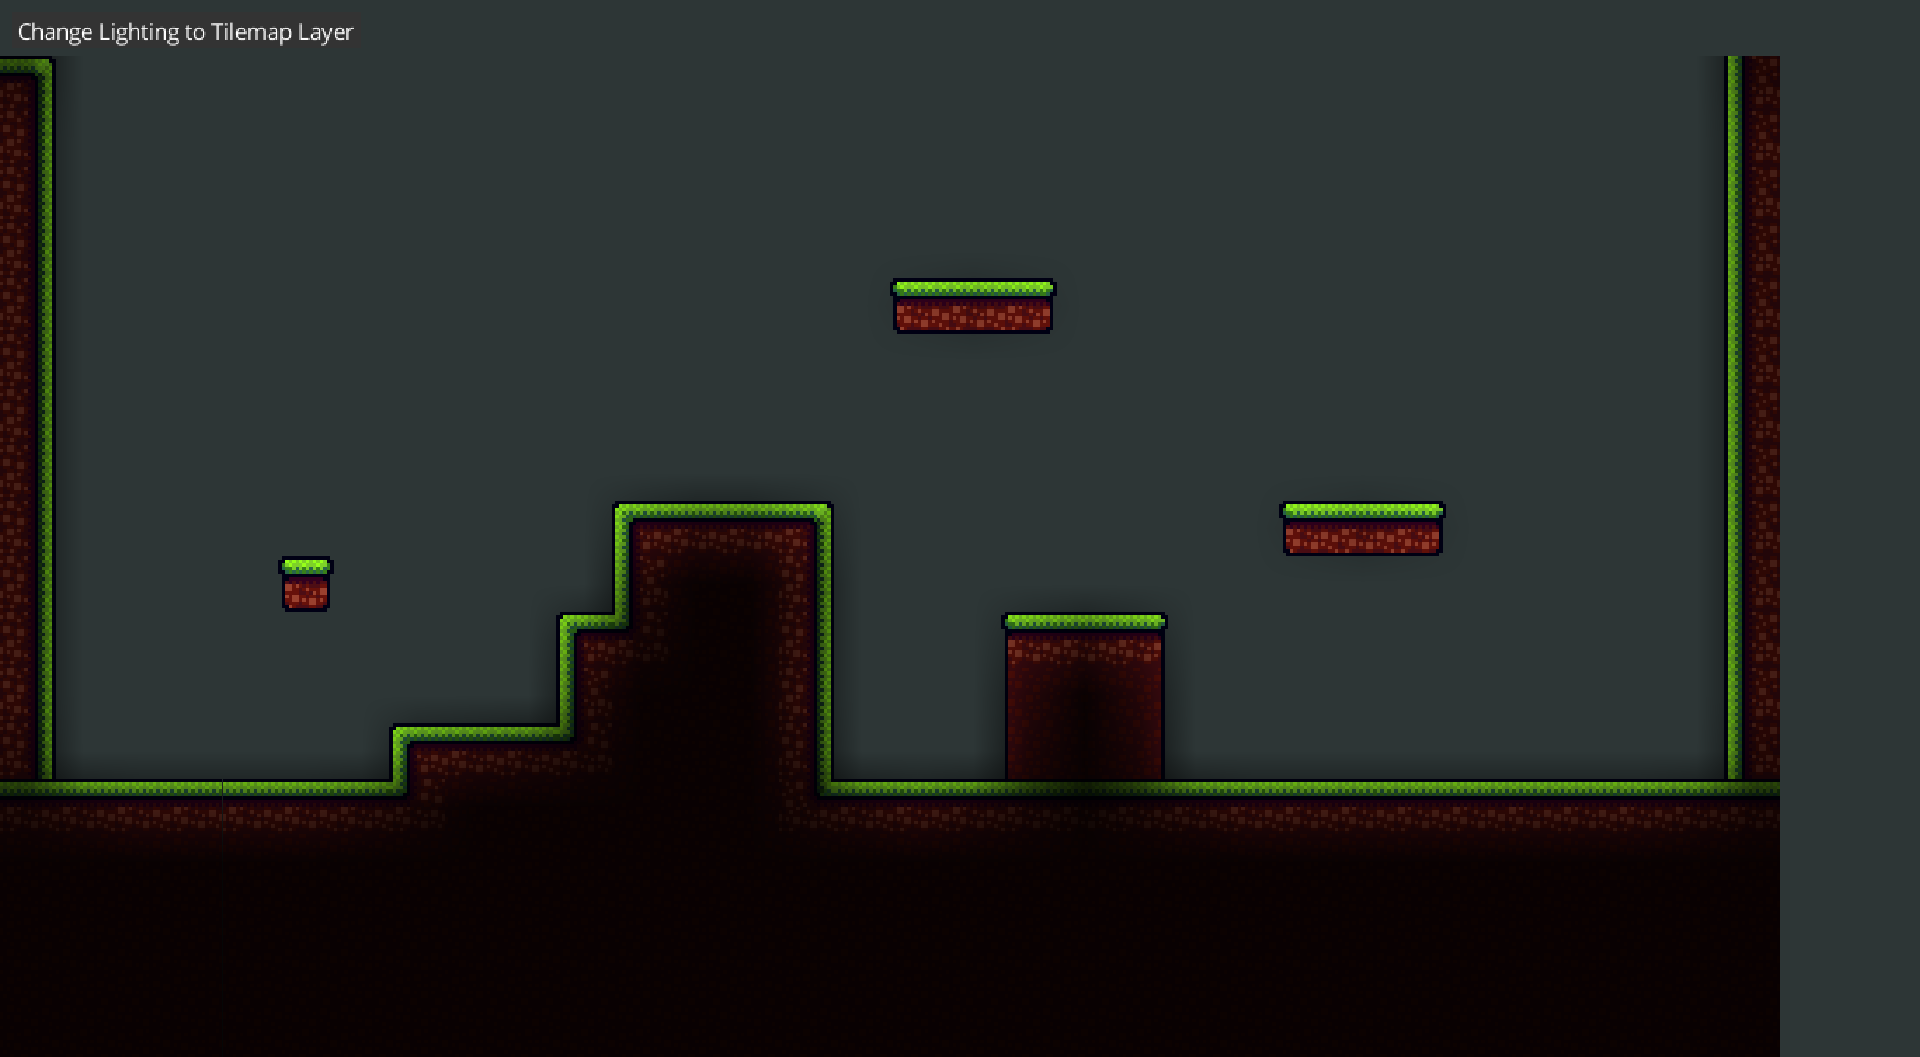
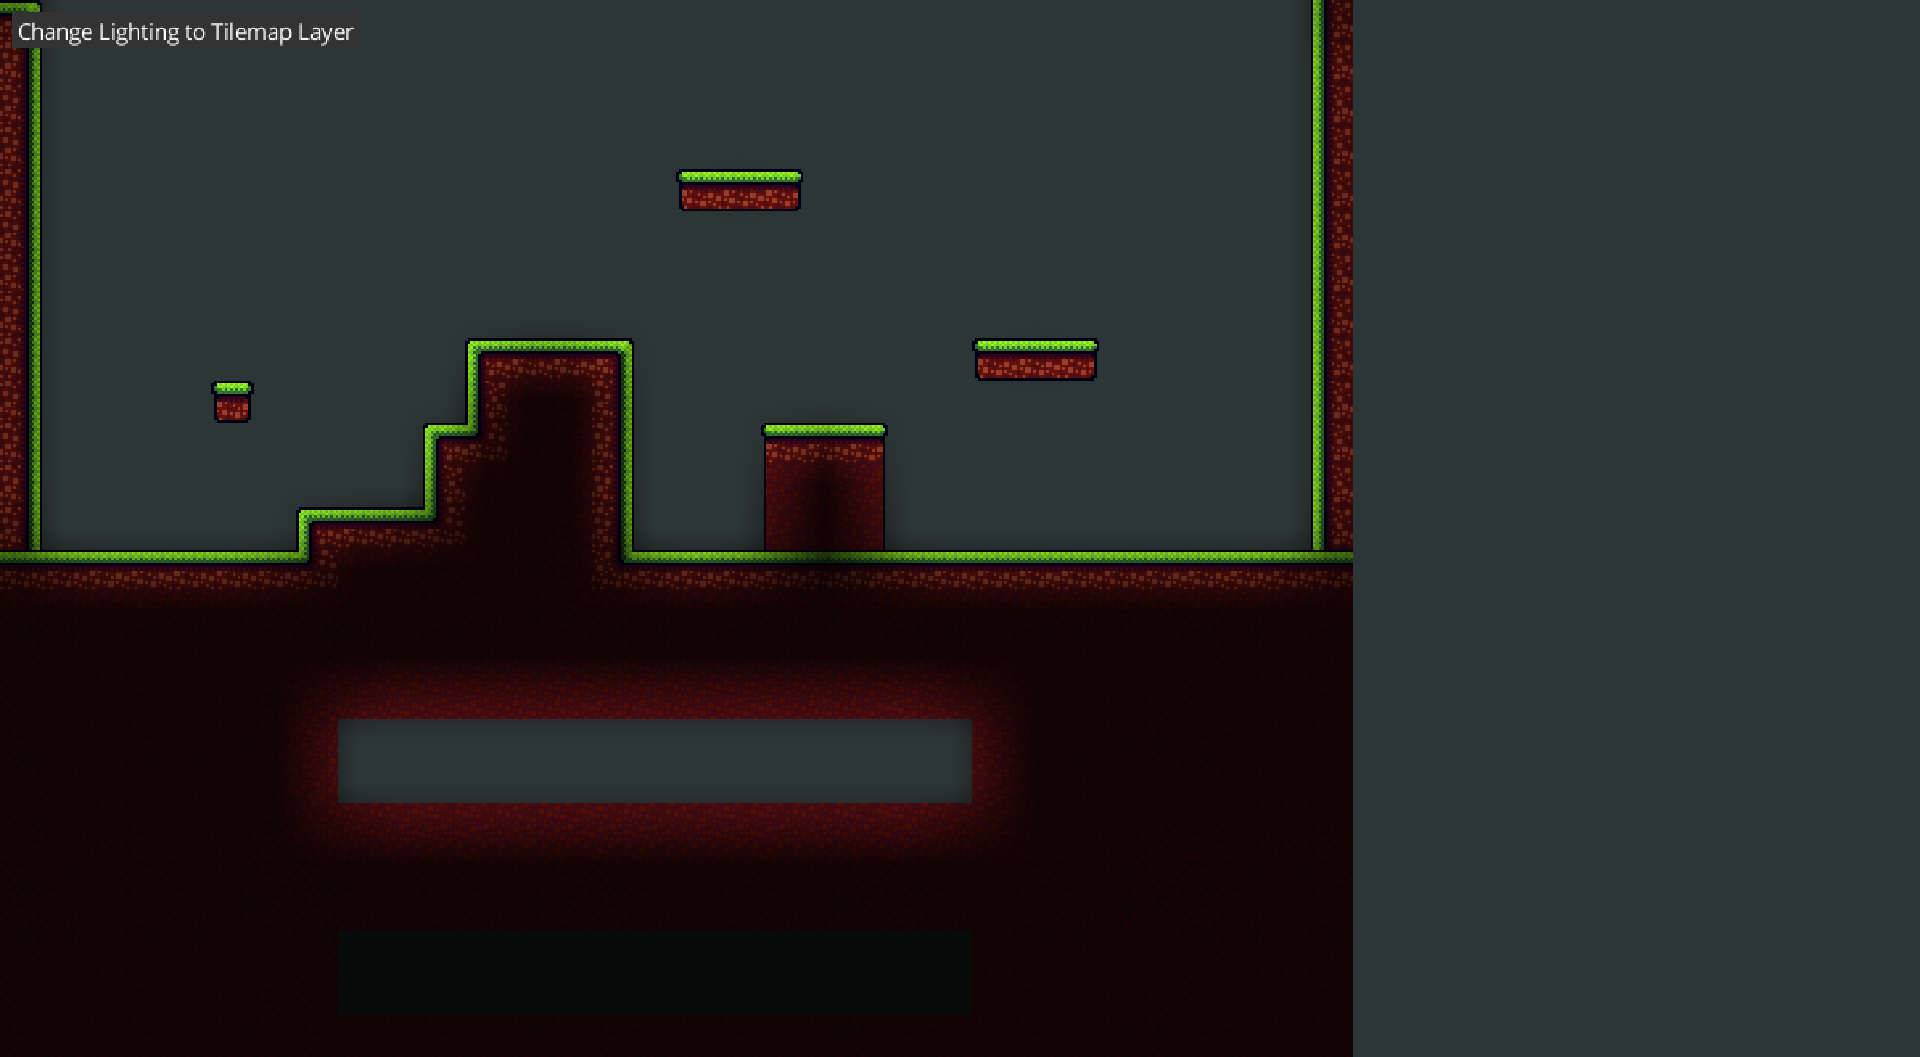
Added async based framebuffer method instead of the pixmap method

diff --git a/core/src/main/java/dev/lyze/tiledLightingExample/Map.java b/core/src/main/java/dev/lyze/tiledLightingExample/Map.java
@@ -6,6 +6,9 @@ import com.badlogic.gdx.graphics.Color;
 import com.badlogic.gdx.graphics.OrthographicCamera;
 import com.badlogic.gdx.graphics.Pixmap;
 import com.badlogic.gdx.graphics.Texture;
+import com.badlogic.gdx.graphics.g2d.SpriteBatch;
+import com.badlogic.gdx.graphics.g2d.TextureRegion;
+import com.badlogic.gdx.graphics.glutils.FrameBuffer;
 import com.badlogic.gdx.maps.tiled.*;
 import com.badlogic.gdx.maps.tiled.renderers.OrthogonalTiledMapRenderer;
 
@@ -17,78 +20,93 @@ public class Map {
     private final OrthogonalTiledMapRenderer renderer;
 
     private final TiledMapTileLayer mapLayer;
-    private TiledMapTileLayer lightingLayer;
+    private final TiledMapTileLayer lightingLayer;
+    private final ArrayList<TiledMapTile> lightingTiles;
 
-    private Texture lightingTexture;
+    private final Texture pixel;
+    private final SpriteBatch lightingBatch;
+    private final FrameBuffer lightingFrameBuffer;
+    private final TextureRegion lightingTexture;
 
     private final int maxCaveHeight;
+    private final int lightingTickSpeed;
+
+    private int currentLightingCoordinate = 0;
 
     public Map(String path) {
-        this(path, 5);
+        this(path, 4, 10);
     }
 
-    public Map(String path, int maxCaveHeight) {
-        this(new InternalFileHandleResolver(), path, maxCaveHeight);
+    public Map(String path, int maxCaveHeight, int lightingTickSpeed) {
+        this(new InternalFileHandleResolver(), path, maxCaveHeight, lightingTickSpeed);
     }
 
-    public Map(FileHandleResolver resolver, String path, int maxCaveHeight) {
+    public Map(FileHandleResolver resolver, String path, int maxCaveHeight, int lightingTickSpeed) {
         this.maxCaveHeight = maxCaveHeight;
+        this.lightingTickSpeed = lightingTickSpeed;
 
         map = new TmxMapLoader(resolver).load(path);
         mapLayer = (TiledMapTileLayer) map.getLayers().get("Map");
 
         renderer = new OrthogonalTiledMapRenderer(map, 1f / mapLayer.getTileWidth());
 
-        generateLightingLayer();
+        pixel = generatePixel();
+        lightingBatch = new SpriteBatch();
+        lightingBatch.getProjectionMatrix().setToOrtho2D(0, 0, mapLayer.getWidth(), mapLayer.getHeight());
+        lightingFrameBuffer = new FrameBuffer(Pixmap.Format.RGBA8888, mapLayer.getWidth(), mapLayer.getHeight(), false);
+        lightingTexture = new TextureRegion(lightingFrameBuffer.getColorBufferTexture());
+        lightingTexture.flip(false, true);
+
+        lightingLayer = new TiledMapTileLayer(mapLayer.getWidth(), mapLayer.getHeight(), mapLayer.getTileWidth(), mapLayer.getTileHeight());
+        lightingTiles = generateLightingTiles(map.getTileSets().getTileSet("Lighting"));
+        map.getLayers().add(lightingLayer);
 
         lightingLayer.setVisible(false);
+    }
+
+    // might be better to load a texture instead of creating one
+    private Texture generatePixel() {
+        Pixmap pixmap = new Pixmap(1, 1, Pixmap.Format.RGBA8888);
+        pixmap.setColor(Color.WHITE);
+        pixmap.fill();
+        return new Texture(pixmap);
+    }
+
+    // generate lighting during every frame for a certain amount of tiles to not overload the gpu. (=> basically "async")
+    public void update() {
+        lightingFrameBuffer.begin();
+        lightingBatch.begin();
+
+        for (int i = 0; i < lightingTickSpeed && currentLightingCoordinate < lightingLayer.getWidth() * lightingLayer.getHeight(); i++, currentLightingCoordinate++) {
+            int x = currentLightingCoordinate / lightingLayer.getHeight();
+            int invY = currentLightingCoordinate % lightingLayer.getHeight();
+            int y = lightingLayer.getHeight() - 1 - invY;
+
+            if (y > maxCaveHeight && mapLayer.getCell(x, y) == null) {
+                continue;
+            }
+
+            float average = calculateAverageLightingOfTile(mapLayer, x, y);
+
+            lightingBatch.setColor(new Color(0, 0, 0, average));
+            lightingBatch.draw(pixel, x, y);
+
+            // since the average generates floats from 0.0 to 0.1 in steps of 0.1 (e.g. 0.1XXXX, 0.2XXXX, 0.3XXXX) we can clamp it and figure out the index via that
+            int index = (int) (average * 10);
+
+            // create the cell with the appropriately tinted tile
+            TiledMapTileLayer.Cell cell = new TiledMapTileLayer.Cell();
+            cell.setTile(lightingTiles.get(index));
+            lightingLayer.setCell(x, y, cell);
+        }
+
+        lightingBatch.end();
+        lightingFrameBuffer.end();
     }
 
     public void render(OrthographicCamera camera) {
         renderer.setView(camera);
         renderer.render();
-    }
-
-    private void generateLightingLayer() {
-        lightingLayer = new TiledMapTileLayer(mapLayer.getWidth(), mapLayer.getHeight(), mapLayer.getTileWidth(), mapLayer.getTileHeight());
-        map.getLayers().add(lightingLayer);
-
-        setupLighting(generateLightingTiles(map.getTileSets().getTileSet("Lighting")));
-    }
-
-    private void setupLighting(ArrayList<TiledMapTile> tiles) {
-        Pixmap lightingPixmap = new Pixmap(lightingLayer.getWidth(), lightingLayer.getHeight(), Pixmap.Format.RGBA8888);
-        lightingPixmap.setFilter(Pixmap.Filter.BiLinear);
-
-        for (int invY = 0; invY <= lightingLayer.getHeight(); invY++) {
-            int y = lightingLayer.getHeight() - invY;
-            for (int x = 0; x <= lightingLayer.getWidth(); x++) {
-                if (y > maxCaveHeight && mapLayer.getCell(x, y) == null) {
-                    System.out.print("  ");
-                    continue;
-                }
-
-                float average = calculateAverageLightingOfTile(mapLayer, x, y);
-
-                lightingPixmap.setColor(new Color(0, 0, 0, average));
-                lightingPixmap.drawPixel(x, y);
-
-                // since the average generates floats from 0.0 to 0.1 in steps of 0.1 (e.g. 0.1XXXX, 0.2XXXX, 0.3XXXX) we can clamp it and figure out the index via that
-                int index = (int) (average * 10);
-                System.out.print(index + " ");
-
-                // create the cell with the appropriately tinted tile
-                TiledMapTileLayer.Cell cell = new TiledMapTileLayer.Cell();
-                cell.setTile(tiles.get(index));
-                lightingLayer.setCell(x, y, cell);
-            }
-            System.out.println();
-        }
-
-        // generate the texture based on the generated pixmap
-        lightingTexture = new Texture(lightingPixmap);
-        // important part: set it to linear for "smoothness"
-        lightingTexture.setFilter(Texture.TextureFilter.Linear, Texture.TextureFilter.Linear);
     }
 
     // calculates lighting average for this one specific tile according to https://gamedev.stackexchange.com/a/126165
@@ -125,7 +143,7 @@ public class Map {
         return tiles;
     }
 
-    public Texture getLightingTexture() {
+    public TextureRegion getLightingTexture() {
         return lightingTexture;
     }
 
@@ -143,6 +161,10 @@ public class Map {
 
     public int getHeight() {
         return lightingLayer.getHeight();
+    }
+
+    public void restartLightingGeneration() {
+        currentLightingCoordinate = 0;
     }
 }
 

diff --git a/core/src/main/java/dev/lyze/tiledLightingExample/Main.java b/core/src/main/java/dev/lyze/tiledLightingExample/Main.java
@@ -61,6 +61,7 @@ public class Main extends ApplicationAdapter {
 
         // render map
         gameViewport.apply();
+        map.update();
         map.render((OrthographicCamera) gameViewport.getCamera());
 
         // render pixmap/texture
@@ -69,7 +70,7 @@ public class Main extends ApplicationAdapter {
             batch.setProjectionMatrix(gameViewport.getCamera().combined);
             batch.begin();
             // texture is flipped, so let's unflip it here
-            batch.draw(map.getLightingTexture(), 0, map.getHeight(), map.getWidth(), -map.getHeight());
+            batch.draw(map.getLightingTexture(), 0, 0, map.getWidth(), map.getHeight());
             batch.end();
         }
 

diff --git a/readme.md b/readme.md
@@ -1,7 +1,7 @@
 Libgdx lighting example via two different modes:
 
 1. Via tiles in a tilemap to create hard shading
-2. Via a small pixmap (-> texture) which uses blending to create smooth shading
+2. Via a small framebuffer (-> texture) which uses blending to create smooth shading
 
 ### Html Example: https://lyze237.github.io/LibgdxTiledLightingExample/
 
